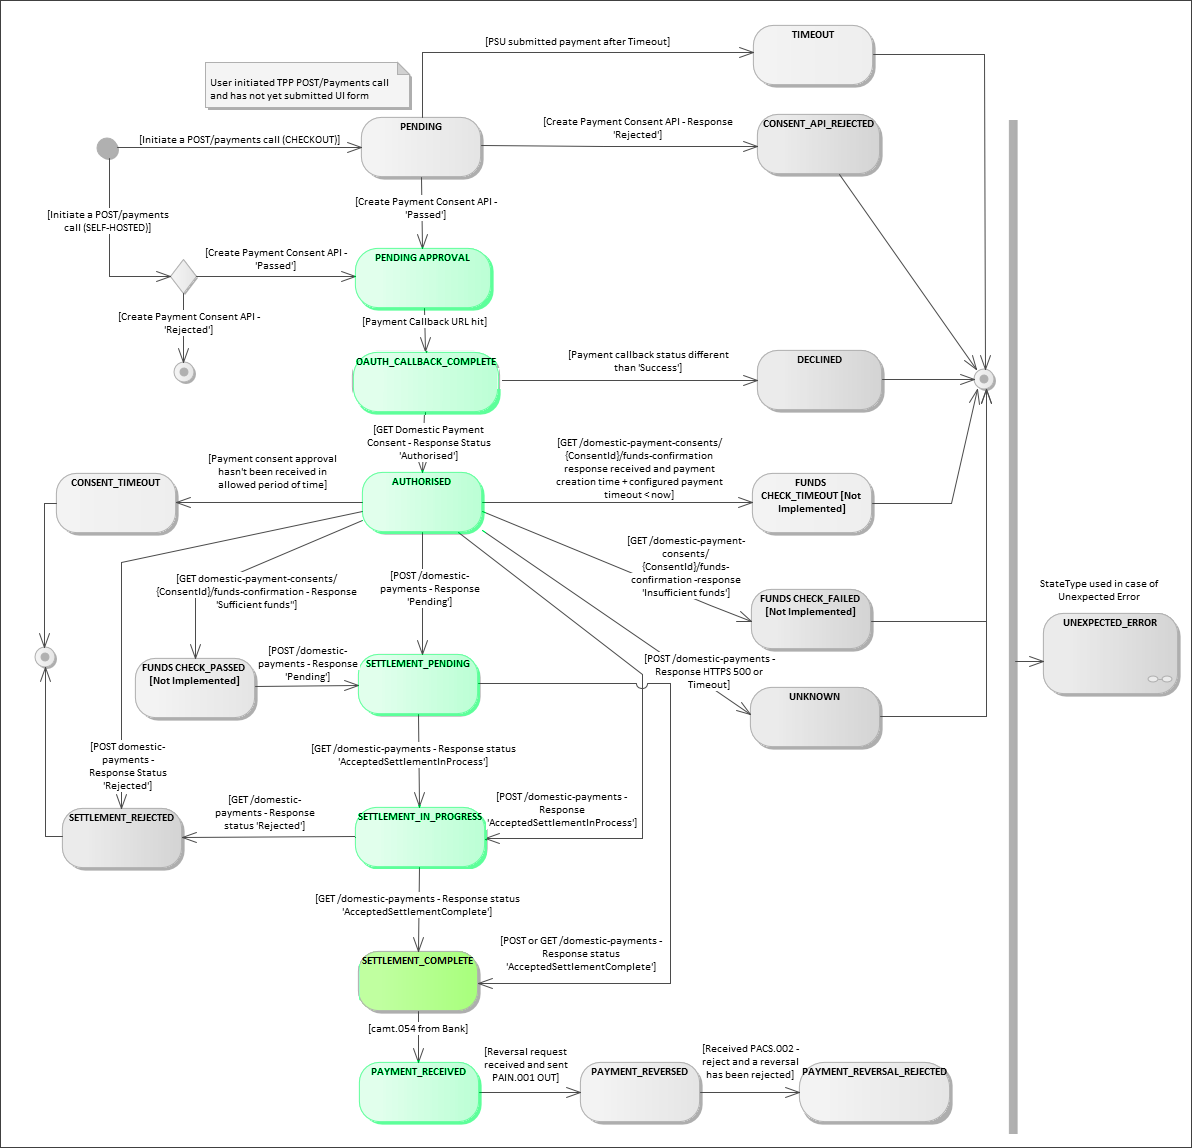
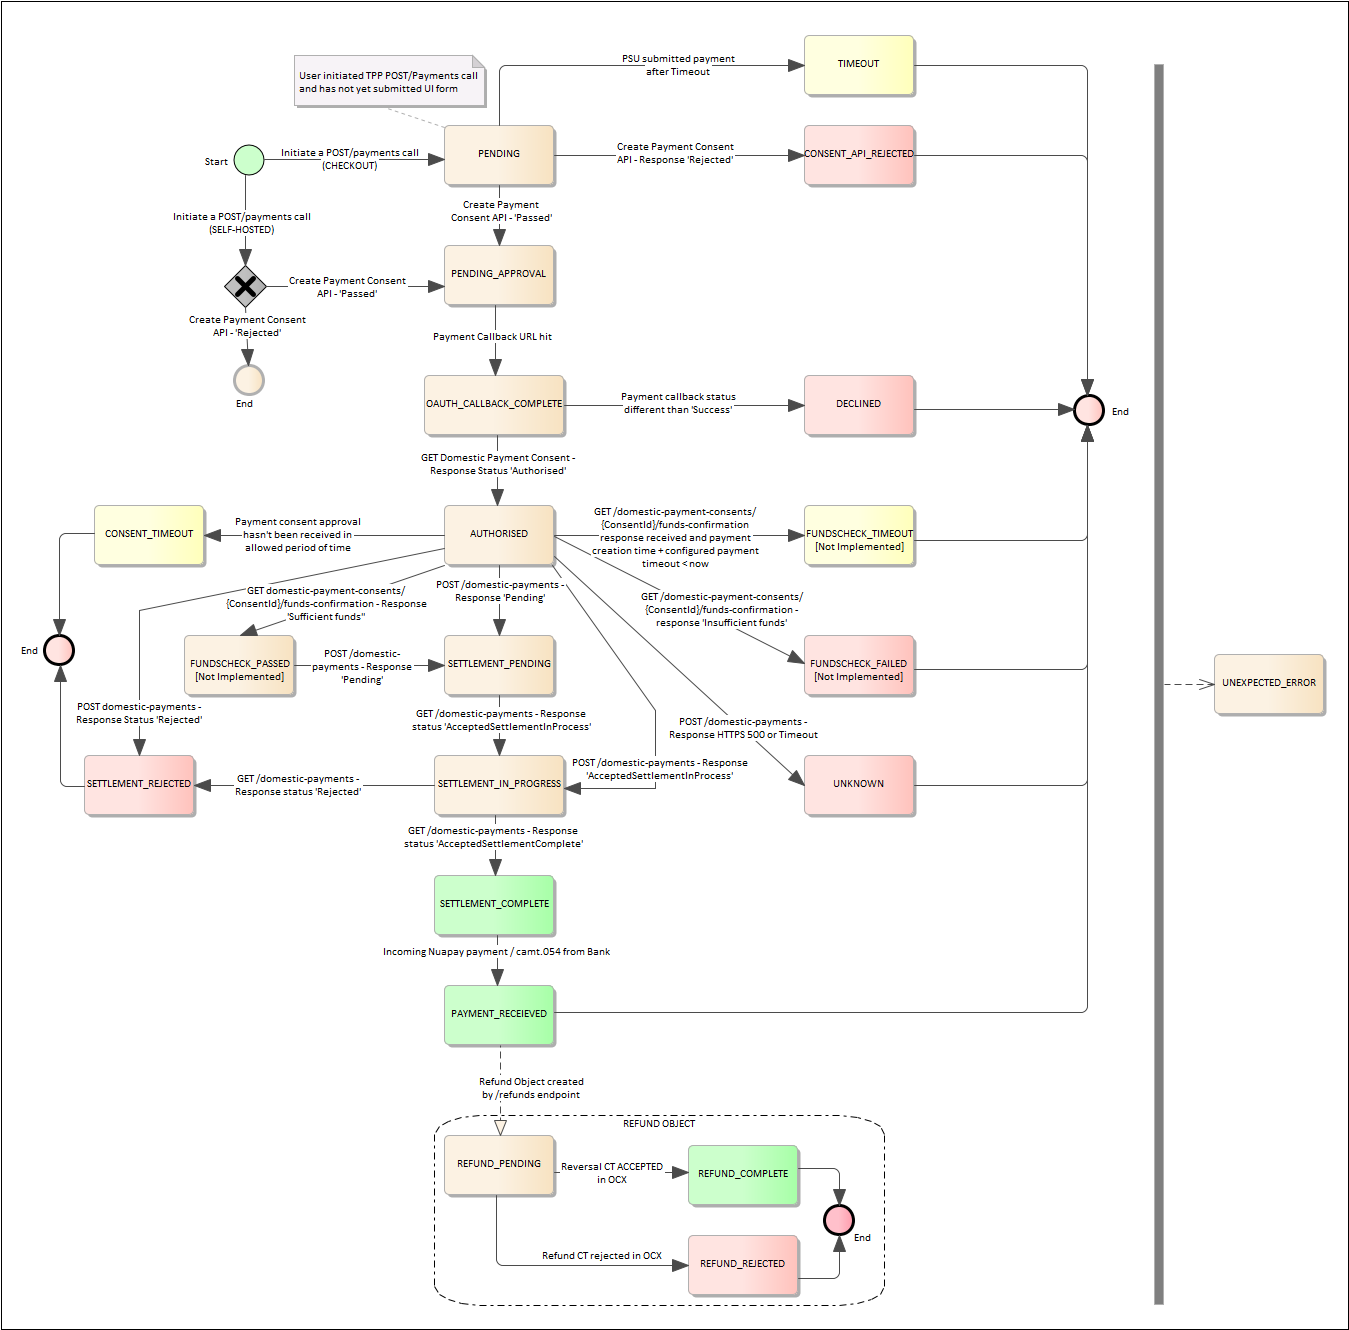
Updates to OBUK Refund section and payment Statuses

diff --git a/pages/prodOpenBanking/ob_paymentstatuses.md b/pages/prodOpenBanking/ob_paymentstatuses.md
@@ -10,8 +10,9 @@ toc: false
 
 ## Overview
 
-Open Banking Payments transition from an initial `PENDING` to any one of a number of possible statuses (note that some statuses are Nuapay-specific and are only relevant if you are using a Nuapay beneficiary account for your Open Banking payments). 
-The various statuses possible are presented below in a table and as a state diagram:
+Open Banking Payments transition from an initial `PENDING` to any one of a number of possible statuses (note that some statuses are Nuapay-specific and are only relevant if you are using a Nuapay beneficiary account for your Open Banking payments).
+
+The various statuses possible (for both payments and refunds) are presented in the tables below and as a state diagram:
 
 
 
@@ -26,6 +27,7 @@ The various statuses possible are presented below in a table and as a state diag
 
 <p>The following table gives an overview of each possible status and, if applicable, the Webhook event triggered:</p>
 
+<p><b>PAYMENT STATUSES</b></p>
 
 <table style="width: 730px;">
   <tbody>
@@ -164,33 +166,9 @@ The various statuses possible are presented below in a table and as a state diag
       <td>Yes</td>
       <td>Yes</td>
       <td><a href="ob_whpaymenttimeout.html">PaymentTimeout</a></td>
-    </tr>      
+    </tr>        
     
-     <tr>
-      <td><code class="highlighter-rouge">REFUND_PENDING</code></td>
-      <td>The merchant has initiated a refund; it may be successfully processed or it may be rejected. </td>
-       <td>Yes</td>
-      <td>No</td>
-      <td>No</td>
-      <td>N/A</td>
-    </tr>
-    
-    <tr>
-      <td><code class="highlighter-rouge">PAYMENT_REVERSED</code></td>
-      <td>A payment that was previously received is successfully refunded/credited back to the PSU. A payment is typically reversed where the merchant deems it appropriate to refund a customer (following a complaint, for example).</td>
-       <td>Yes</td>
-      <td>Yes</td>
-      <td>Yes</td>
-      <td><a href="ob_whrreversed.html">PaymentReversed</a></td>
-    </tr>
-    <tr>
-      <td><code class="highlighter-rouge">PAYMENT_REVERSAL_REJECTED</code></td>
-      <td>A refund payment credited to the PSU has been rejected by the beneficiary bank for a specific reason (e.g. the account is closed).</td>
-       <td>Yes</td>
-      <td>Yes</td>
-      <td>No</td>
-      <td>N/A</td>
-    </tr>
+   
     <tr>
       <td><code class="highlighter-rouge">UNEXPECTED_ERROR</code></td>
       <td>A processing error has occurred. This may be due to connectivity issues between ASPSP and the TPP for example.</td>
@@ -211,6 +189,50 @@ The various statuses possible are presented below in a table and as a state diag
 </table>
 
 
+<p><b>REFUND STATUSES</b></p>
+
+<p>Where you query the ID of a refund object (returned when you call the <a href = 'ob_refundpayment.html'>Refund Payment</a> service), the following are the possible refund statuses:</p>
+
+<p><b>Note:</b> Refunds are only available to merchants who have opted to use a Nuapay account to receive their open banking payments.</p>
+
+<table style="width: 730px;">
+  <tbody>
+    <tr>
+      <td><strong>Status</strong></td>
+      <td><strong>Description</strong></td>
+      <td><strong>Nuapay-Specific?</strong></td>
+      <td><strong>Final Status?</strong></td>
+      <td><strong>Webhook Triggered?</strong></td>
+      <td><strong>Webhook Link</strong></td>
+    </tr>
+    <tr>
+      <td><code class="highlighter-rouge">REFUND_PENDING</code></td>
+      <td>A refund has been initiated for a given <code class="highlighter-rouge">`paymentId`</code>. This is the initial staus of the refund object.</td>
+      <td>Yes</td>
+      <td>No</td>
+      <td>No</td>
+      <td>N/A</td>
+    </tr>
+    <tr>
+      <td><code class="highlighter-rouge">REFUND_COMPLETE</code></td>
+      <td>A refund  has been successfully paid to the PSU.</td>
+      <td>Yes</td>
+      <td>Yes</td>
+      <td>Yes</td> 
+      <td><a href="ob_whrefundcomplete.html">PaymentRefundComplete</a></td>
+    </tr>
+     <tr>
+      <td><code class="highlighter-rouge">REFUND_REJECTED</code></td>
+      <td>The refund could not be paid to the PSU (e.g. the PSU's account is closed).</td>
+      <td>Yes</td>
+      <td>Yes</td>
+      <td>No</td> 
+      <td>N/A</td>
+    </tr>
+ </tbody>
+</table>
+
+
 
 </div>
 
@@ -223,7 +245,7 @@ The various statuses possible are presented below in a table and as a state diag
 {% include note.html content="Click the Extend button on the top menu to enlarge or click the image to open it in a new browser window/tab, which will allow you to zoom in for a clearer view." %}
 
 
- {% include image.html file="ob_paymentStatus.png" url="images/ob_paymentStatus.png" target = "_new" alt="Payment Statuses" caption="Payment Statuses" %}
+ {% include image.html file="ob_paymentStatus.png" url="images/ob_paymentStatus.png" target = "_new" alt="Payment & Refund Statuses" caption="Payment & Refund Statuses" %}
 
 </div>
 </div>

diff --git a/pages/prodOpenBanking/ob_refundpayment.md b/pages/prodOpenBanking/ob_refundpayment.md
@@ -14,14 +14,28 @@ The Refund Payment service allows you to refund an Open Banking payment.
 
 {% include important.html content="Refunding a payment is only possible if you are using a Nuapay account as your merchant account; if your Open Banking payments have not been credited to this account then the Nuapay system has no beneficiary account reference and cannot refund the funds to the appropriate customer account. " %}
 
-A successful request puts the payment into an initial `REFUND_PENDING` status and a Credit Transfer payment is initiated to the customer account linked to the provided `paymentId`.
+When you initiate a refund request, a new refund object is created. 
 
-* If the payment is *successful*, funds are credited to the PSU and the payment status is updated to PAYMENT_REVERSED.
-* If the payment is *unsuccessful* (for example the beneficiary account is closed), the payment is updated to PAYMENT_REVERSAL_REJECTED.
+The refund request object may be in one of three statuses:
 
-Where the payment is successfully refunded (with funds disbursed to your customer's account) a Webhook notification will be triggered to your configured Webhooks Endpoint. See <a href="ob_whrreversed.html">Payment Reversed</a> in the Webhooks section for more details.
+* REFUND_PENDING
+* REFUND_COMPLETE
+* REFUND_REJECTED
 
-{% include note.html content="Where a refund is unsuccessful you will not be notified via a Webhook; instead you would need to use the Retrieve Payment service to determine the payment status. A Webhook will be available for this in the next Open Banking release." %}
+Where a refund request is successful:
+
+1. The user calls the `/payments/{paymentId}/refunds` service. Provided the referenced payment is in `PAYMENT_RECEIVED` status (and all other [Refund Configuration](ob_refundpayment.html#refund-configuration) constraints are met), a **refund object** is created in `REFUND_PENDING` status. Note that the actual payment status is unchanged.
+1. A Credit Transfer payment is initiated to the customer account linked to the provided `paymentId`.
+1. The payment is successfully processed - funds are credited to the PSU. The refund object's status is updated to `REFUND_COMPLETE`
+1. A Payment Refund Complete Webhook notifies the merchant of the successful refund. See <a href="ob_whrefundcomplete.html">Payment Refunded Event</a> in the Webhooks section for more details.
+
+Where a refund request is unsuccessful:
+
+1. The user calls the `/payments/{paymentId}/refunds` service and all validations (as mentioned above) are passed.
+1. A Credit Transfer payment is initiated to the customer account linked to the provided `paymentId` but cannot be processed e.g. the PSU's account is closed.
+1. The refund object is updated to `REFUND_REFJECTED` 
+
+{% include note.html content="Where a refund is unsuccessful you will not be notified via a Webhook; instead you would need to use the Retrieve Payment service (passing the refund object identifier) to determine the refund status. A Webhook will be available for this in the next Open Banking release." %}
 
 ## Refund Options
 

diff --git a/pages/prodOpenBanking/ob_whrefundcomplete.md b/pages/prodOpenBanking/ob_whrefundcomplete.md
@@ -8,7 +8,7 @@ folder: prodNuapay
 toc: false
 ---
  
-{% include webhook.html content="A refunded payment has been successfully credited to the PSU and has moved to PAYMENT_REVERSED status." %}
+{% include webhook.html content="A refunded payment has been successfully credited to the PSU. The associated refund object has a status of REFUND_COMPLETE." %}
 
 
 ## Webhook Message Details
@@ -77,14 +77,14 @@ This Webhook has a single event type: <b>PaymentRefundComplete</b>
 			<td>resourceUri</td>
 			<td>string</td>
 			<td>Mandatory</td>
-			<td> This is URI of the payment resource. Use the URI in the <a href="ob_retrievepayment.html">Retrieve Payment</a> call.</td>
+			<td> This is URI of the refund resource. Use the URI in the <a href="ob_retrievepayment.html">Retrieve Payment</a> call.</td>
 		</tr>
 		<tr>
 			<td>root</td>
 			<td>resourceType</td>
 			<td>string</td>
 			<td>Mandatory</td>
-			<td>This is the type of the resource to which the URI is related. In this case it is a payment resource.</td>
+			<td>This is the type of the resource to which the URI is related. In this case it is a refund resource.</td>
 		</tr>
         <tr>
 			<td>root</td>
